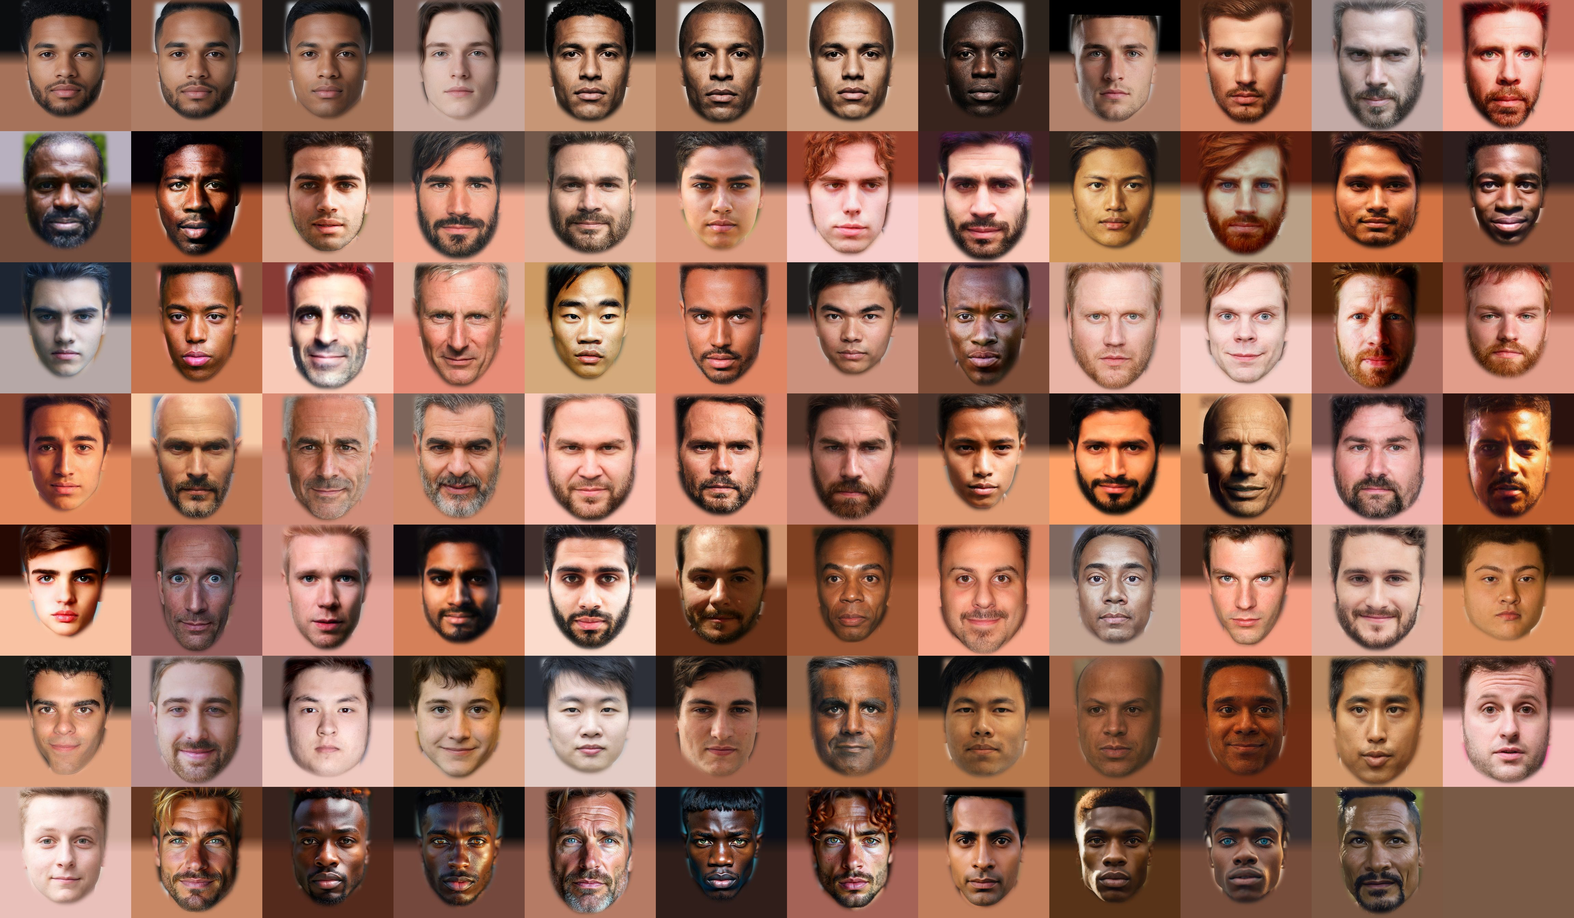
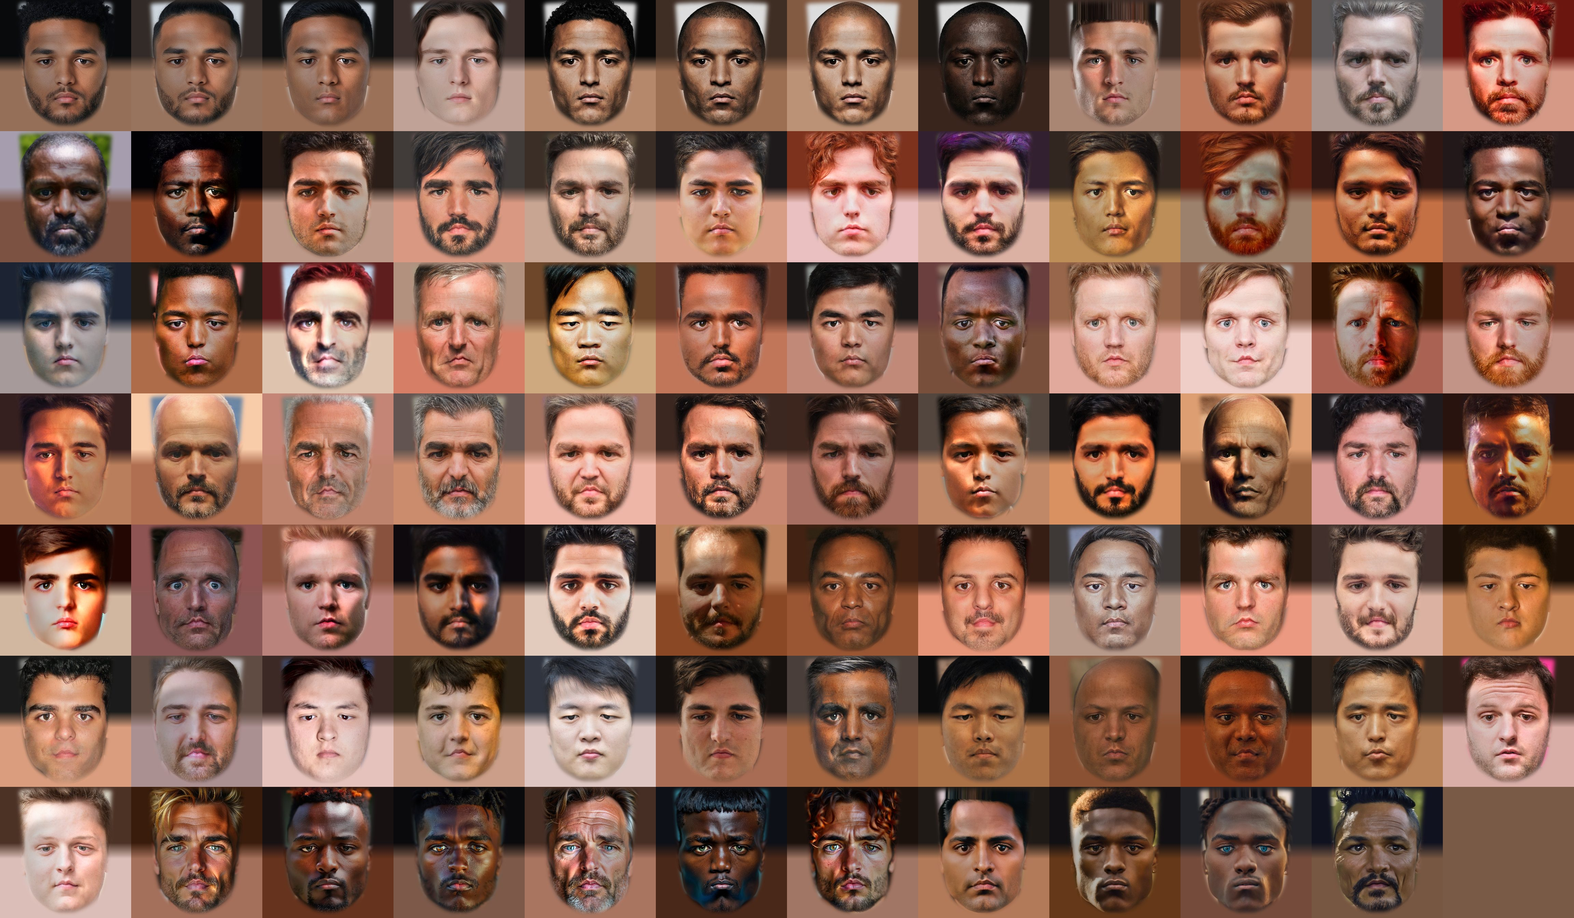
GOLAÇO: condução híbrida (bola animada presa à passada + física), rosto encaixado na cabeça 3D por 478 pontos e sem luz da foto, gola na base do pescoço
- match.js: a bola segue uma 'bola animada' que sai do pé no toque e volta a ele no
  próximo (curva 4u(1-u)); toques na fase da passada e toque de esforço nas viradas
- human.js: keepBall descontava errado o movimento do jogador (corrida entortava sozinha)
- rostos: deformação por triângulos até os marcos da cabeça escaneada; luz da foto
  simétrica e suave; pescoço com o tom medido na foto; sem riscos sob o queixo
- ferramentas: drible-medida.mjs, drible-clip.mjs, rostos/marcos_cabeca.py

Claude-Session: https://claude.ai/code/session_01FUV4HT5SGUEUdgmWhHdtfs

diff --git a/futebol3d/js/match.js b/futebol3d/js/match.js
@@ -350,56 +350,67 @@ export class Match {
     }
     if (act) return;
     if (b.p.y > 0.5) return;
-    // Condução: a bola fica perto do pé bom (35 cm parado, ~55 cm trotando, ~85 cm
-    // em arrancada) e recebe um toque no instante em que o pé passa à frente na
-    // passada (fase sincronizada com anim.js), então o toque aparece na animação.
+    // Condução híbrida (como nos jogos de futebol de console): existe uma "bola
+    // animada" presa à passada — sai do pé no toque, abre um pouco à frente e volta a
+    // encontrar o pé exatamente no próximo toque (curva 4u(1-u), a de uma bola que
+    // desacelera em relação ao jogador) — e a bola física é puxada para ela. O toque
+    // acontece quando o pé bom chega à frente na passada (fase de anim.js), então o pé
+    // e a bola se encontram na tela. Viradas fortes geram um "toque de esforço".
     const sp = o.speed;
     const dri = o.a.dri / 99;
-    const lead = o.shielding ? 0.3 : 0.32 + sp * (o.sprint ? 0.068 : 0.042) * (1.25 - dri * 0.4);
-    const side = 0.11 * o.foot;                    // levemente para o lado do pé bom
     const rx = -o.fz, rz = o.fx;
-    const tx = o.x + o.fx * lead + rx * side, tz = o.z + o.fz * lead + rz * side;
-    const ex = tx - b.p.x, ez = tz - b.p.z;
-    // fase da passada: pé direito à frente em ~0,35; esquerdo em ~0,85
     const L = cycleLength(sp, o.pose.moveAngle || 0);
     const st = o.pose.stride, want = o.foot > 0 ? 0.35 : 0.85;
-    // quanto a fase andou desde a última checagem (descarta valores velhos de outra posse)
     let dSt = st - (o.lastStride ?? st);
     if (dSt < -512) dSt += 1024;
     if (dSt < 0 || dSt > 0.25) dSt = 0;
     const crossed = sp > 0.8 && dSt > 0 && Math.floor(st - want) !== Math.floor(st - dSt - want);
     o.lastStride = st;
     o.touchTimer -= dt;
+    if (o.cushion > 0) o.cushion -= dt;
+    // ciclos de passada entre toques: 1 conduzindo; 2 em arrancada (bola mais longa)
+    const per = o.sprint && sp > 6.5 ? 2 : 1;
+    if (o.dribSt === undefined) o.dribSt = st;
+    let ph = st - o.dribSt; if (ph < 0) ph += 1024;
+    const u = Math.min(ph / per, 1.15);
+    // alcance do pé no toque e abertura máxima da bola entre toques
+    const base = o.shielding ? 0.3 : 0.36 + Math.min(sp, 8) * 0.022;
+    const open = (o.shielding ? 0.03 : Math.min(sp, 9) * (per > 1 ? 0.085 : 0.045)) * (1.3 - dri * 0.55);
+    const gap = sp > 0.8 ? open * 4 * u * (1 - Math.min(u, 1)) : 0;
+    const lead = base + gap;
+    const side = (sp > 0.8 ? 0.1 : 0.12) * o.foot;
+    const tx = o.x + o.fx * lead + rx * side, tz = o.z + o.fz * lead + rz * side;
+    const ex = tx - b.p.x, ez = tz - b.p.z, err = Math.hypot(ex, ez);
+    this.dbgErr = err;
+    // virada: a bola ficou fora da direção do corpo
     const relx = b.p.x - o.x, relz = b.p.z - o.z;
     const ahead = relx * o.fx + relz * o.fz;
     const angOff = Math.abs(Math.atan2(relx * rx + relz * rz, Math.max(0.05, ahead)));
-    const needTurn = angOff > 1.0 && sp > 1;      // virou: a bola precisa ser redirecionada já
-    if ((crossed && o.touchTimer <= 0) || needTurn && o.touchTimer <= 0 || (sp <= 0.8 && Math.hypot(ex, ez) > 0.25 && o.touchTimer <= 0)) {
-      // toque: a bola sai com a velocidade do jogador + o que falta para chegar ao ponto à frente
-      const T = sp > 0.8 ? Math.max(0.22, L / Math.max(sp, 1)) : 0.35;
-      const noise = (1 - dri) * 0.25 * (o.sprint ? 1.5 : 1);
-      b.kick(o.vx + ex / T * 1.15 + gauss() * noise, 0, o.vz + ez / T * 1.15 + gauss() * noise);
-      this.dbgWhy = crossed ? 'fase' : needTurn ? 'giro' : 'lento';
-      o.touchTimer = needTurn && !crossed ? 0.22 : 0.18;
+    const effort = angOff > 0.75 && sp > 1 && err > 0.3;
+    const due = crossed && ph / per > 0.6;
+    if (o.touchTimer <= 0 && (due || effort || (sp <= 0.8 && err > 0.3))) {
+      o.dribSt = st;
+      o.touchTimer = effort ? 0.3 : 0.2;
+      this.dbgWhy = effort ? 'giro' : due ? 'fase' : 'lento';
+      // velocidade de saída da bola animada logo após o toque (+ o que falta corrigir)
+      const v0 = sp > 0.8 ? open * 4 / Math.max(0.25, L * per / Math.max(sp, 1)) : 0;
+      const noise = (1 - dri) * 0.18 * (o.sprint ? 1.5 : 1);
+      b.kick(o.vx + o.fx * v0 + ex * 3 + gauss() * noise, 0, o.vz + o.fz * v0 + ez * 3 + gauss() * noise);
       this.touch(o, 'dribble');
       if (sp > 3 && Math.random() < 0.3) this.emit('dribble', {});
-    } else {
-      // entre os toques a bola rola livre; só um leve "domínio" corrige a deriva
-      // lateral, como o jogador ajeitando o corpo (sem grudar)
-      if (o.cushion > 0) o.cushion -= dt;
-      const strong = o.cushion > 0 || sp < 1.2;   // domínio ou parado: a bola assenta no pé
-      const k = Math.min(1, dt * (strong ? 7 : 2 + dri * 2.5));
-      if (strong) {
-        b.v.x += (o.vx + ex * 5 - b.v.x) * k; b.v.z += (o.vz + ez * 5 - b.v.z) * k;
-        return;
-      }
-      const lat = ex * rx + ez * rz;
-      b.v.x += rx * lat * 2.2 * k; b.v.z += rz * lat * 2.2 * k;
-      const relV = (b.v.x - o.vx) * o.fx + (b.v.z - o.vz) * o.fz;
-      const lon = ex * o.fx + ez * o.fz;
-      if (lon < -0.15 && relV < 0) { b.v.x -= o.fx * relV * k; b.v.z -= o.fz * relV * k; }   // ficou para trás: alcança
-      if (lon > 0.35 && relV > 0) { b.v.x -= o.fx * relV * k * 0.8; b.v.z -= o.fz * relV * k * 0.8; } // escapou à frente
+      return;
     }
+    // entre os toques: a bola física segue a bola animada (velocidade da curva + correção
+    // limitada, para não "teleportar"); amortecendo o domínio, assenta mais devagar
+    const dGap = sp > 0.8 && u < 1 ? open * 4 * (1 - 2 * u) * sp / (L * per) : 0;
+    const vtx = o.vx + o.fx * dGap, vtz = o.vz + o.fz * dGap;
+    const kc = o.cushion > 0 ? 5 : 9;
+    let cx = ex * kc, cz = ez * kc;
+    const cmax = o.cushion > 0 ? 3 : 2.2 + sp * 0.35, cl = Math.hypot(cx, cz);
+    if (cl > cmax) { cx *= cmax / cl; cz *= cmax / cl; }
+    const k = Math.min(1, dt * (o.cushion > 0 ? 8 : 14));
+    b.v.x += (vtx + cx - b.v.x) * k;
+    b.v.z += (vtz + cz - b.v.z) * k;
   }
 
   possession(dt) {
@@ -482,6 +493,7 @@ export class Match {
     const tx = p.x + p.fx * lead, tz = p.z + p.fz * lead;
     b.v.x = p.vx + (tx - b.p.x) * 2.4; b.v.z = p.vz + (tz - b.p.z) * 2.4;
     p.cushion = 0.5;
+    p.dribSt = undefined;
     if (b.p.y < R + 0.05) { b.v.y = 0; b.rolling = true; }
     this.touch(p, how);
     this.emit('touch', { strength: 0.25 });

diff --git a/futebol3d/js/players3d.js b/futebol3d/js/players3d.js
@@ -497,7 +497,7 @@ float fabH = 0.0;
 #ifdef BODY_SKIN
   // gola do corpo realista decidida por pixel (os vértices misturam pele/camisa em dente de serra)
   if (r.y > 1.36 && abs(r.x) < 0.24 && (m == 0 || m == 1 || m == 2 || m == 13) && r.y < 1.56)
-    m = r.y > 1.488 + 0.9 * max(0.0, abs(r.x) - 0.078) - 0.12 * max(0.0, r.z - 0.02) ? 0 : 1;
+    m = r.y > 1.522 + 0.7 * max(0.0, abs(r.x) - 0.06) - 0.18 * max(0.0, r.z - 0.03) ? 0 : 1;
   // limites do uniforme por pixel (os vértices só dizem a "parte": braço, tronco/pernas, cabeça)
   bool armP = m == 2 || m == 13 || m == 12;
   bool bodyP = m == 1 || m == 3 || m == 4 || m == 6 || m == 14 || (m == 0 && r.y < 1.0);
@@ -533,7 +533,7 @@ float fabH = 0.0;
   float collar = floor(K(5).a + 0.5);
 #ifdef BODY_SKIN
   // corpo realista: golas medidas a partir da linha do pescoço (não da altura fixa do boneco antigo)
-  float neckL = 1.488 + 0.9 * max(0.0, abs(r.x) - 0.078) - 0.12 * max(0.0, r.z - 0.02);
+  float neckL = 1.522 + 0.7 * max(0.0, abs(r.x) - 0.06) - 0.18 * max(0.0, r.z - 0.03);
   float yv = neckL - 0.07 + abs(r.x) * 1.25;
   float vBand = band(r.y, yv, 0.0085) * step(0.0, r.z) * step(r.y, neckL);
   float vIn = aa(r.y - yv - 0.0085) * step(0.0, r.z);
@@ -630,14 +630,28 @@ float fabH = 0.0;
   } else if (m == 16) {
     // cabeça escaneada: a foto do jogador projetada de frente (como o teste "B");
     // laterais/costas: cabelo acima da linha do cabelo, pele abaixo
+    // a base do pescoço escaneado fica dentro da gola: o que escapar abaixo dela some
+    if (r.y < 1.505) discard;
     vec3 dd = normalize(r - vec3(0.0, 1.665, 0.035));
     vec2 fu = clamp(vFaceUv, vec2(0.004), vec2(0.996));
     // abaixo do queixo e fora da célula: pele lisa (sem vazar bordas/vizinhos da foto)
     float front = smoothstep(0.02, 0.42, dd.z) * (1.0 - smoothstep(0.9, 0.96, vFaceUv.y)) * (1.0 - smoothstep(0.44, 0.49, abs(vFaceUv.x - 0.5)));
-    vec3 ph = texture(uFace, vec2((mod(vPid, 8.0) + fu.x) / 8.0, 1.0 - (floor(vPid / 8.0) + fu.y) / 4.0)).rgb;
+    vec2 cell0 = vec2(mod(vPid, 8.0), floor(vPid / 8.0));
+    vec3 ph = texture(uFace, vec2((cell0.x + fu.x) / 8.0, 1.0 - (cell0.y + fu.y) / 4.0)).rgb;
+    // superfície virada para baixo (sob o queixo/mandíbula) não recebe a foto: ela escorreria em riscos
+    vec3 gn = cross(dFdx(r), dFdy(r));
+    float gny = gn.y / max(length(gn), 1e-12);
+    front *= smoothstep(-0.55, -0.25, gny);
+    // pele das laterais/pescoço = a própria foto (bochechas e testa), para o tom bater com o rosto
+    vec3 sk0 = vec3(0.0);
+    for (int i = 0; i < 4; i++) {
+      vec2 q = i == 0 ? vec2(0.27, 0.6) : i == 1 ? vec2(0.71, 0.6) : i == 2 ? vec2(0.5, 0.3) : vec2(0.33, 0.68);
+      sk0 += texture(uFace, vec2((cell0.x + q.x) / 8.0, 1.0 - (cell0.y + q.y) / 4.0), 3.0).rgb;
+    }
+    sk0 *= 0.25;
     float g2 = fract(sin(dot(floor(r.xz * 900.0 + r.y * 300.0), vec2(12.9898, 78.233))) * 43758.5453);
     float hairZ = (1.0 - sk.w) * smoothstep(1.638, 1.668, r.y - 0.02 * dd.z) * (1.0 - smoothstep(0.065, 0.08, abs(r.x)) * (1.0 - smoothstep(1.70, 1.72, r.y)));
-    vec3 back = mix(K(0).rgb, K(8).rgb * (0.8 + 0.35 * g2), hairZ);
+    vec3 back = mix(sk0, K(8).rgb * (0.8 + 0.35 * g2), hairZ);
     c = mix(back, ph, front);
     matRough = mix(0.62, 0.5, front);
     if (uDbgN > 0.5) c = texture(uHeadN, vUv2).rgb;
@@ -1048,7 +1062,7 @@ export class PlayerMeshes {
       const x0 = (i % 8) * F, y0 = Math.floor(i / 8) * F;
       let r = 0, gg = 0, bb = 0, n = 0;
       // testa + bochechas + queixo (média ampla: a luz da foto varia pelo rosto)
-      for (const [cx, cy] of [[0.5, 0.3], [0.3, 0.58], [0.66, 0.58], [0.5, 0.82]]) {
+      for (const [cx, cy] of [[0.46, 0.3], [0.27, 0.6], [0.65, 0.6], [0.46, 0.86]]) {
         const px = g.getImageData(x0 + cx * F, y0 + cy * F, 0.08 * F, 0.06 * F).data;
         for (let k = 0; k < px.length; k += 4) { r += px[k]; gg += px[k + 1]; bb += px[k + 2]; n++; }
       }

diff --git a/futebol3d/js/human.js b/futebol3d/js/human.js
@@ -119,14 +119,17 @@ function moveInput(p, mx, mz, sprint, scale) {
 function keepBall(m, p) {
   const b = m.ball;
   if (p.action || b.held || b.p.y > 0.6) return;
-  const rx = b.p.x + b.v.x * 0.12 - p.x, rz = b.p.z + b.v.z * 0.12 - p.z;
+  // posição relativa prevista (descontando o próprio movimento do jogador)
+  const rx = b.p.x + (b.v.x - p.vx) * 0.12 - p.x, rz = b.p.z + (b.v.z - p.vz) * 0.12 - p.z;
   const d = Math.hypot(rx, rz) || 1e-6;
   let dx = p.dx, dz = p.dz;
   let s = Math.hypot(dx, dz);
   const ux = s > 0.01 ? dx / s : p.fx, uz = s > 0.01 ? dz / s : p.fz;
   const ahead = (rx * ux + rz * uz);            // bola à frente na direção pedida?
   // peso do "ir até a bola": cresce com a distância e quando ela não está à frente
-  const k = clamp((d - 0.45) / 0.4, 0, 1) + clamp((0.25 - ahead) / 0.35, 0, 1) * 0.7 * clamp((d - 0.35) / 0.3, 0, 1);
+  // (a condução em match.js já mantém a bola no pé; aqui só quando ela ficou longe ou
+  // para trás — sem puxar para o lado do pé bom, senão a corrida entorta)
+  const k = clamp((d - 0.95) / 0.5, 0, 1) + clamp((0.1 - ahead) / 0.35, 0, 1) * 0.7 * clamp((d - 0.45) / 0.3, 0, 1);
   const bs = Math.hypot(b.v.x, b.v.z);
   if (k > 0) {
     const w = Math.min(1, k);

diff --git a/futebol3d/tools/rostos/processar.py b/futebol3d/tools/rostos/processar.py
@@ -12,38 +12,95 @@ AQUI = os.path.dirname(os.path.abspath(__file__))
 SAIDA = os.path.join(AQUI, '..', '..', 'assets', 'rostos')
 SFHQ = '/tmp/claude-0/-home-user-jogo-futebol/9805b587-e422-5403-9106-8bf9d9184706/scratchpad/sfhq/'
 os.makedirs(SAIDA, exist_ok=True)
-C = 384; EX, EY, ED = 0.5, 0.42, 0.27; COLS = 12
+C = 384; COLS = 12
+# marcos da cabeça 3D no espaço da célula (marcos_cabeca.py): a foto é deformada por
+# triângulos até cada ponto do rosto (olhos, nariz, boca, mandíbula) cair sobre o relevo
+# — a "reprojeção" dos geradores de cabeça por foto; antes era só pelos olhos e não batia.
+import cv2
+HM0 = np.array(json.load(open(os.path.join(AQUI, 'cabeca-marcos.json')))['p'])[:468] * C
+# pontos usados no encaixe: só os que independem de olho/boca abertos (no escaneamento as
+# pálpebras e os lábios estão fechados; usar o contorno do olho esmagaria o olho da foto)
+SEL = [10, 338, 297, 332, 284, 251, 389, 356, 454, 323, 361, 288, 397, 365, 379, 378, 400, 377, 152, 148, 176, 149, 150, 136, 172, 58, 132, 93, 234, 127, 162, 21, 54, 103, 67, 109,
+       70, 63, 105, 66, 107, 300, 293, 334, 296, 336, 33, 133, 362, 263,
+       1, 4, 5, 6, 197, 195, 168, 98, 327, 2, 48, 278, 64, 294,
+       61, 291, 0, 17, 37, 267, 84, 314, 50, 280, 123, 352, 187, 411, 205, 425, 36, 266, 199, 175, 18, 32, 262, 151, 9, 108, 337]
+def com_centros(P):
+    # + centro de cada olho (média das pálpebras) e da boca (média dos lábios internos)
+    return np.concatenate([P[SEL], [(P[159] + P[145]) / 2, (P[386] + P[374]) / 2, (P[13] + P[14]) / 2]])
+HM = com_centros(HM0)
+EX, EY = HM0[[33, 133, 362, 263], 0].mean() / C, HM0[[33, 133, 362, 263], 1].mean() / C
+ED = (HM0[[362, 263], 0].mean() - HM0[[33, 133], 0].mean()) / C
+OVAL = [10, 338, 297, 332, 284, 251, 389, 356, 454, 323, 361, 288, 397, 365, 379, 378, 400, 377, 152, 148, 176, 149, 150, 136, 172, 58, 132, 93, 234, 127, 162, 21, 54, 103, 67, 109]
+def _ancoras():
+    # pontos fora do rosto: borda da célula e um anel em volta do contorno (seguem o encaixe geral)
+    b = [(x, y) for t in np.linspace(0, 1, 9) for x, y in ((t * (C - 1), 0), (t * (C - 1), C - 1), (0, t * (C - 1)), (C - 1, t * (C - 1)))]
+    ov = HM0[OVAL]; cc = ov.mean(0)
+    anel = [cc + (p - cc) * 1.22 for p in ov[::2]]
+    return np.unique(np.round(np.array(b + [tuple(p) for p in anel]), 2), axis=0)
+ANC = _ancoras()
+DST = np.concatenate([HM, ANC])
+# triângulos (Delaunay) no espaço de destino
+sub = cv2.Subdiv2D((-2, -2, C + 4, C + 4))
+for x, y in DST: sub.insert((float(min(max(x, 0), C - 1)), float(min(max(y, 0), C - 1))))
+key = {(round(float(min(max(x, 0), C - 1)), 2), round(float(min(max(y, 0), C - 1)), 2)): i for i, (x, y) in enumerate(DST)}
+TRI = []
+for t in sub.getTriangleList():
+    ids = [key.get((round(float(t[k]), 2), round(float(t[k + 1]), 2))) for k in (0, 2, 4)]
+    if None not in ids: TRI.append(ids)
+TRI = np.array(TRI)
+# mapa denso: para cada pixel da célula, triângulo e coordenadas baricêntricas
+TID = np.full((C, C), -1, np.int32)
+for k, (i, j, l) in enumerate(TRI):
+    cv2.fillConvexPoly(TID, np.round(DST[[i, j, l]]).astype(np.int32), int(k))
+yy, xx = np.mgrid[0:C, 0:C].astype(np.float64)
+TID[TID < 0] = 0
+A, B, Cc = DST[TRI[TID, 0]], DST[TRI[TID, 1]], DST[TRI[TID, 2]]
+den = (B[..., 1] - Cc[..., 1]) * (A[..., 0] - Cc[..., 0]) + (Cc[..., 0] - B[..., 0]) * (A[..., 1] - Cc[..., 1])
+den[np.abs(den) < 1e-9] = 1e-9
+W0 = ((B[..., 1] - Cc[..., 1]) * (xx - Cc[..., 0]) + (Cc[..., 0] - B[..., 0]) * (yy - Cc[..., 1])) / den
+W1 = ((Cc[..., 1] - A[..., 1]) * (xx - Cc[..., 0]) + (A[..., 0] - Cc[..., 0]) * (yy - Cc[..., 1])) / den
+W2 = 1 - W0 - W1
+from PIL import ImageDraw, ImageFilter
+MK = Image.new('L', (C, C), 0)
+ov = HM0[OVAL]; cc = ov.mean(0)
+ImageDraw.Draw(MK).polygon([tuple(cc + (p - cc) * 1.02) for p in ov], fill=255)
+MKF = np.asarray(MK.filter(ImageFilter.GaussianBlur(C * 0.02))).astype(np.float32) / 255
+def tira_luz(arr, mk):
+    # luz da foto (baixa frequência da luminância) fica simétrica e mais suave: a cabeça
+    # 3D já recebe a luz do jogo, e sombra forte de um lado só fica falsa
+    L = arr @ np.array([0.299, 0.587, 0.114]) + 1
+    sg = C * 0.05
+    Lb = cv2.GaussianBlur(L * mk, (0, 0), sg) / np.maximum(cv2.GaussianBlur(mk, (0, 0), sg), 1e-3)
+    Lb = np.where(cv2.GaussianBlur(mk, (0, 0), sg) > 0.02, Lb, L).clip(1, None)
+    cx = int(round(EX * C))
+    Lm = np.roll(Lb[:, ::-1], 2 * cx - C + 1, axis=1)
+    Ts = 0.5 * (Lb + Lm)
+    med = np.median(L[mk > 0.5])
+    T = med ** 0.35 * Ts ** 0.65
+    g = np.clip(T / Lb, 0.72, 1.55)
+    g = 1 + (g - 1) * mk
+    return np.clip(arr * g[..., None], 0, 255)
 def alinha(im, m):
-    oe, od = m['oe'], m['od']
-    if oe[0] > od[0]: oe, od = od, oe
-    cx, cy = (oe + od) / 2
-    ang = math.atan2(od[1] - oe[1], od[0] - oe[0])
-    esc = (ED * C) / math.hypot(*(od - oe))
-    ca, sa = math.cos(ang) / esc, math.sin(ang) / esc
-    a, b, d, e = ca, -sa, sa, ca
-    c = cx - a * EX * C - b * EY * C; f = cy - d * EX * C - e * EY * C
-    out = im.transform((C, C), Image.AFFINE, (a, b, c, d, e, f), resample=Image.BICUBIC)
-    arr = np.asarray(out).astype(float)
-    # fora do contorno do rosto vira pele (o fundo da foto não vaza para as laterais da cabeça)
-    det = a * e - b * d
-    inv = lambda x, y: ((e * (x - c) - b * (y - f)) / det, (-d * (x - c) + a * (y - f)) / det)
-    ov = [inv(x, y) for x, y in m['oval']]
-    cx0, cy0 = np.mean(ov, axis=0)
-    ov = [(cx0 + (x - cx0) * 1.03, cy0 + (y - cy0) * 1.03) for x, y in ov]
-    # o cabelo da foto entra: a metade de cima do contorno sobe até o topo da célula
-    ey = EY * C
-    ov = [(cx0 + (x - cx0) * (1.10 if y < ey else 1.0), (y - (y - 0) * 0.92) if y < ey - 0.05 * C else y) for x, y in ov]
-    from PIL import ImageDraw, ImageFilter
-    mk = Image.new('L', (C, C), 0); ImageDraw.Draw(mk).polygon(ov, fill=255); mk = mk.filter(ImageFilter.GaussianBlur(C * 0.015))
-    y0, y1 = int(C * 0.55), int(C * 0.63)
-    pele = np.concatenate([arr[y0:y1, int(C * .28):int(C * .36)].reshape(-1, 3), arr[y0:y1, int(C * .64):int(C * .72)].reshape(-1, 3)])
-    pele = np.median(pele, axis=0)
+    S = com_centros(np.asarray(m['todos'])[:468])
+    # encaixe geral (semelhança por mínimos quadrados) para as âncoras fora do rosto
+    M, _ = cv2.estimateAffinePartial2D(HM.astype(np.float32), S.astype(np.float32), method=cv2.LMEDS)
+    SA = np.concatenate([S, ANC @ M[:, :2].T + M[:, 2]])
+    sx = W0 * SA[TRI[TID, 0], 0] + W1 * SA[TRI[TID, 1], 0] + W2 * SA[TRI[TID, 2], 0]
+    sy = W0 * SA[TRI[TID, 0], 1] + W1 * SA[TRI[TID, 1], 1] + W2 * SA[TRI[TID, 2], 1]
+    src = np.asarray(im.convert('RGB'))
+    arr = cv2.remap(src, sx.astype(np.float32), sy.astype(np.float32), cv2.INTER_CUBIC, borderMode=cv2.BORDER_REPLICATE).astype(np.float32)
+    arr = tira_luz(arr, MKF)
+    # pele (bochechas) e cabelo (topo) medidos já no rosto encaixado
+    pele = np.median(np.concatenate([arr[int(C * .58):int(C * .66), int(C * .27):int(C * .35)].reshape(-1, 3), arr[int(C * .58):int(C * .66), int(C * .65):int(C * .73)].reshape(-1, 3)]), axis=0)
     cab = np.median(arr[int(C * .05):int(C * .12), int(C * .42):int(C * .58)].reshape(-1, 3), axis=0)
-    # fora: acima dos olhos = cor do cabelo, abaixo = pele (em degradê)
+    # fora do contorno: o cabelo da foto entra pela metade de cima; o resto vira cabelo/pele
+    ey = EY * C
+    ovs = [(cc[0] + (x - cc[0]) * (1.12 if y < ey else 1.0), (y * 0.08) if y < ey - 0.05 * C else y) for x, y in ov]
+    mk = Image.new('L', (C, C), 0); ImageDraw.Draw(mk).polygon(ovs, fill=255); mk = mk.filter(ImageFilter.GaussianBlur(C * 0.015))
     g = np.linspace(0, 1, C)[:, None, None]
     t = np.clip((g - (EY - 0.04)) / 0.12, 0, 1)
     fundo = Image.fromarray((cab[None, None, :] * (1 - t) + pele[None, None, :] * t).repeat(C, axis=1).astype(np.uint8))
-    out = Image.composite(out, fundo, mk)
+    out = Image.composite(Image.fromarray(arr.astype(np.uint8)), fundo, mk)
     alinha.cab = [int(x) for x in cab]
     return out, [int(x) for x in pele]
 banco = []   # (img, pele, origem)

diff --git a/futebol3d/tools/rostos/marcos_cabeca.py b/futebol3d/tools/rostos/marcos_cabeca.py
@@ -1,0 +1,57 @@
+# Marcos do rosto (MediaPipe, 478 pontos) da cabeça 3D do jogador no espaço da foto (aFace):
+# rasteriza a cabeça escaneada de frente (projeção ortográfica = coordenada aFace) com a
+# textura do próprio escaneamento e roda o Face Landmarker. processar.py usa esses pontos
+# para deformar cada foto até olhos, nariz, boca e mandíbula caírem sobre o relevo da cabeça.
+# Saída: tools/rostos/cabeca-marcos.json (u, v por ponto, 0..1 da célula)
+import json, os, numpy as np
+from PIL import Image
+AQUI = os.path.dirname(os.path.abspath(__file__))
+J = os.path.join(AQUI, '..', '..', 'assets', 'jogador')
+meta = json.load(open(os.path.join(J, 'mh.json')))['body']; buf = open(os.path.join(J, 'mh.bin'), 'rb').read()
+nv, ni = meta['nv'], meta['ni']
+arr = lambda k, dt, n: np.frombuffer(buf, dt, n, meta[k])
+P = arr('pos', np.float32, nv * 3).reshape(-1, 3); UV = arr('uv', np.float32, nv * 2).reshape(-1, 2)
+FU = arr('face', np.float32, nv * 2).reshape(-1, 2); MAT = arr('mat', np.uint8, nv); I = arr('index', np.uint32, ni).reshape(-1, 3)
+F = I[np.all(MAT[I] == 16, axis=1)]
+tex = np.asarray(Image.open(os.path.join(AQUI, '..', 'rosto', 'Map-COL.jpg')).convert('RGB')).astype(np.float32)
+TH, TW = tex.shape[:2]
+S = 768
+img = np.zeros((S, S, 3), np.float32) + 60; zb = np.full((S, S), -1e9)
+for f in F:
+    q = FU[f] * S; z = P[f, 2]; t = UV[f]
+    x0, y0 = np.floor(q.min(0)).astype(int); x1, y1 = np.ceil(q.max(0)).astype(int)
+    x0, y0 = max(x0, 0), max(y0, 0); x1, y1 = min(x1, S - 1), min(y1, S - 1)
+    if x1 < x0 or y1 < y0: continue
+    (ax, ay), (bx, by), (cx, cy) = q
+    den = (by - cy) * (ax - cx) + (cx - bx) * (ay - cy)
+    if abs(den) < 1e-9: continue
+    xs, ys = np.meshgrid(np.arange(x0, x1 + 1) + 0.5, np.arange(y0, y1 + 1) + 0.5)
+    w0 = ((by - cy) * (xs - cx) + (cx - bx) * (ys - cy)) / den
+    w1 = ((cy - ay) * (xs - cx) + (ax - cx) * (ys - cy)) / den
+    w2 = 1 - w0 - w1
+    ins = (w0 >= 0) & (w1 >= 0) & (w2 >= 0)
+    if not ins.any(): continue
+    zz = w0 * z[0] + w1 * z[1] + w2 * z[2]
+    tu = w0 * t[0, 0] + w1 * t[1, 0] + w2 * t[2, 0]; tv = w0 * t[0, 1] + w1 * t[1, 1] + w2 * t[2, 1]
+    yy, xx = ys[ins].astype(int), xs[ins].astype(int)
+    m = zz[ins] > zb[yy, xx]
+    yy, xx = yy[m], xx[m]
+    zb[yy, xx] = zz[ins][m]
+    # UV do glTF: v para baixo (flipY falso)
+    px = np.clip((tu[ins][m] % 1) * TW, 0, TW - 1).astype(int); py = np.clip((tv[ins][m] % 1) * TH, 0, TH - 1).astype(int)
+    img[yy, xx] = tex[py, px]
+out = Image.fromarray(img.clip(0, 255).astype(np.uint8))
+dbg = '/tmp/claude-0/-home-user-jogo-futebol/9805b587-e422-5403-9106-8bf9d9184706/scratchpad/rosto/cabeca-frente.png'
+out.save(dbg)
+import mediapipe as mp
+from alinhar import det
+r = det().detect(mp.Image(image_format=mp.ImageFormat.SRGB, data=np.asarray(out)))
+assert r.face_landmarks, 'rosto não encontrado na cabeça'
+lm = r.face_landmarks[0]
+pts = [[round(p.x, 5), round(p.y, 5)] for p in lm]
+json.dump({'fonte': 'MediaPipe Face Landmarker na cabeça escaneada (frente, espaço aFace)', 'p': pts}, open(os.path.join(AQUI, 'cabeca-marcos.json'), 'w'))
+print('marcos:', len(pts), '| olhos', np.mean([pts[i] for i in (33, 133)], 0), np.mean([pts[i] for i in (362, 263)], 0), '| boca', np.mean([pts[i] for i in (61, 291)], 0), '| queixo', pts[152])
+from PIL import ImageDraw
+d = ImageDraw.Draw(out)
+for x, y in pts: d.ellipse([x * S - 1.5, y * S - 1.5, x * S + 1.5, y * S + 1.5], fill=(0, 255, 0))
+out.save(dbg.replace('.png', '-marcos.png'))

diff --git a/futebol3d/tools/rostos/alinhar.py b/futebol3d/tools/rostos/alinhar.py
@@ -21,7 +21,7 @@ def marcos(im):
     W, H = im.size
     for lm in r.face_landmarks:
         P = lambda ids: np.mean([[lm[i].x * W, lm[i].y * H] for i in ids], axis=0)
-        out.append({'oe': P(OLHO_E), 'od': P(OLHO_D), 'boca': P(BOCA), 'queixo': P([QUEIXO]), 'testa': P([TESTA]), 'oval': np.array([[lm[i].x * W, lm[i].y * H] for i in OVAL])})
+        out.append({'oe': P(OLHO_E), 'od': P(OLHO_D), 'boca': P(BOCA), 'queixo': P([QUEIXO]), 'testa': P([TESTA]), 'oval': np.array([[lm[i].x * W, lm[i].y * H] for i in OVAL]), 'todos': np.array([[p.x * W, p.y * H] for p in lm])})
     return out
 if __name__ == '__main__':
     import sys
